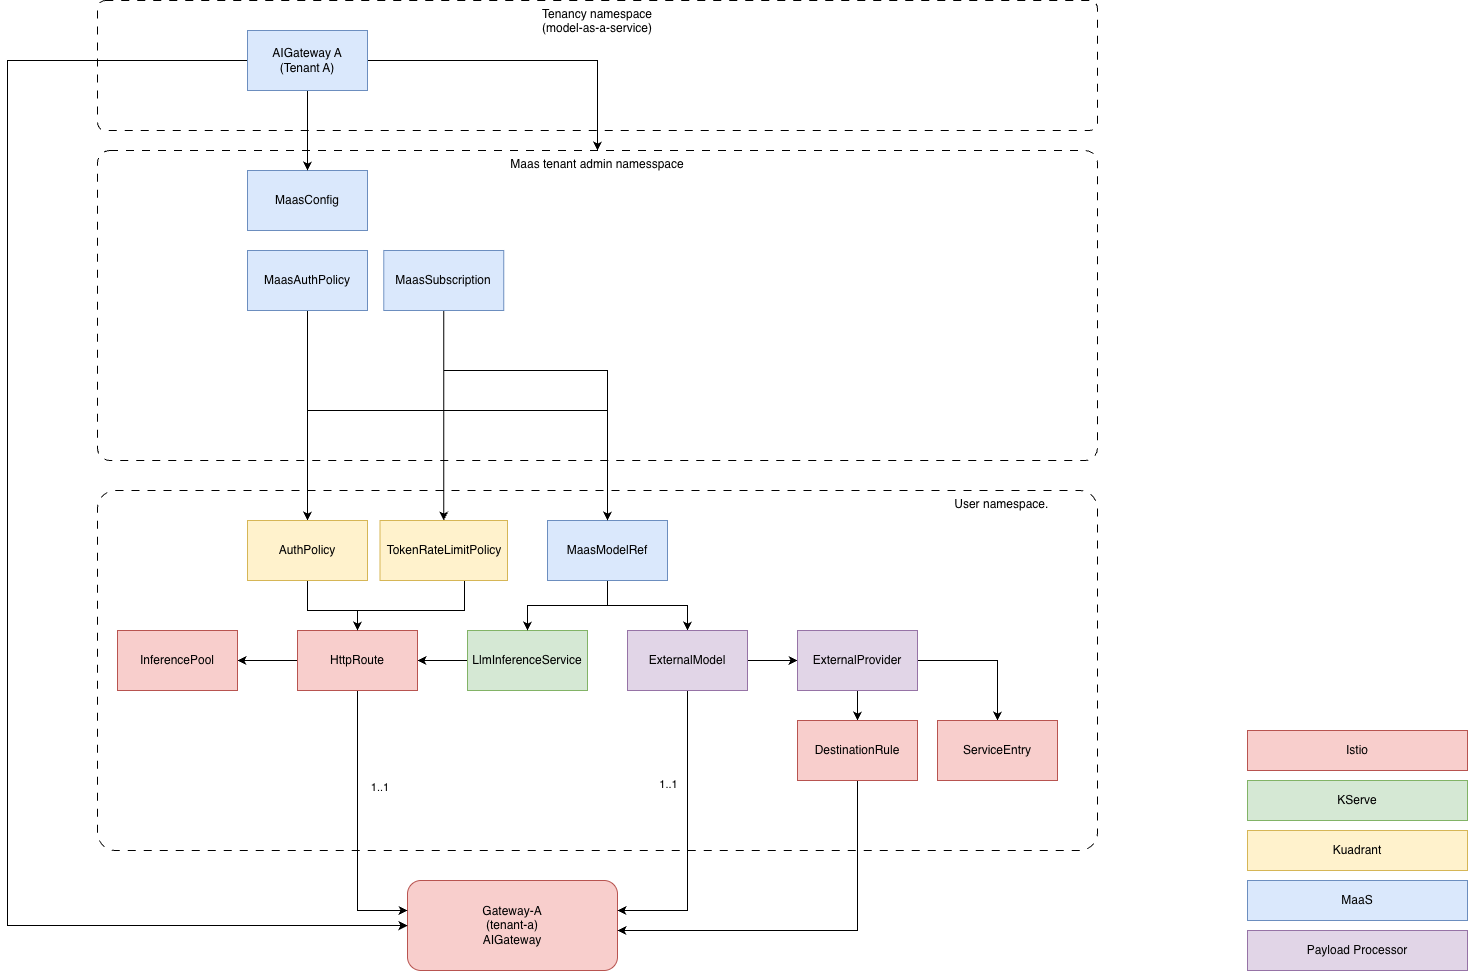
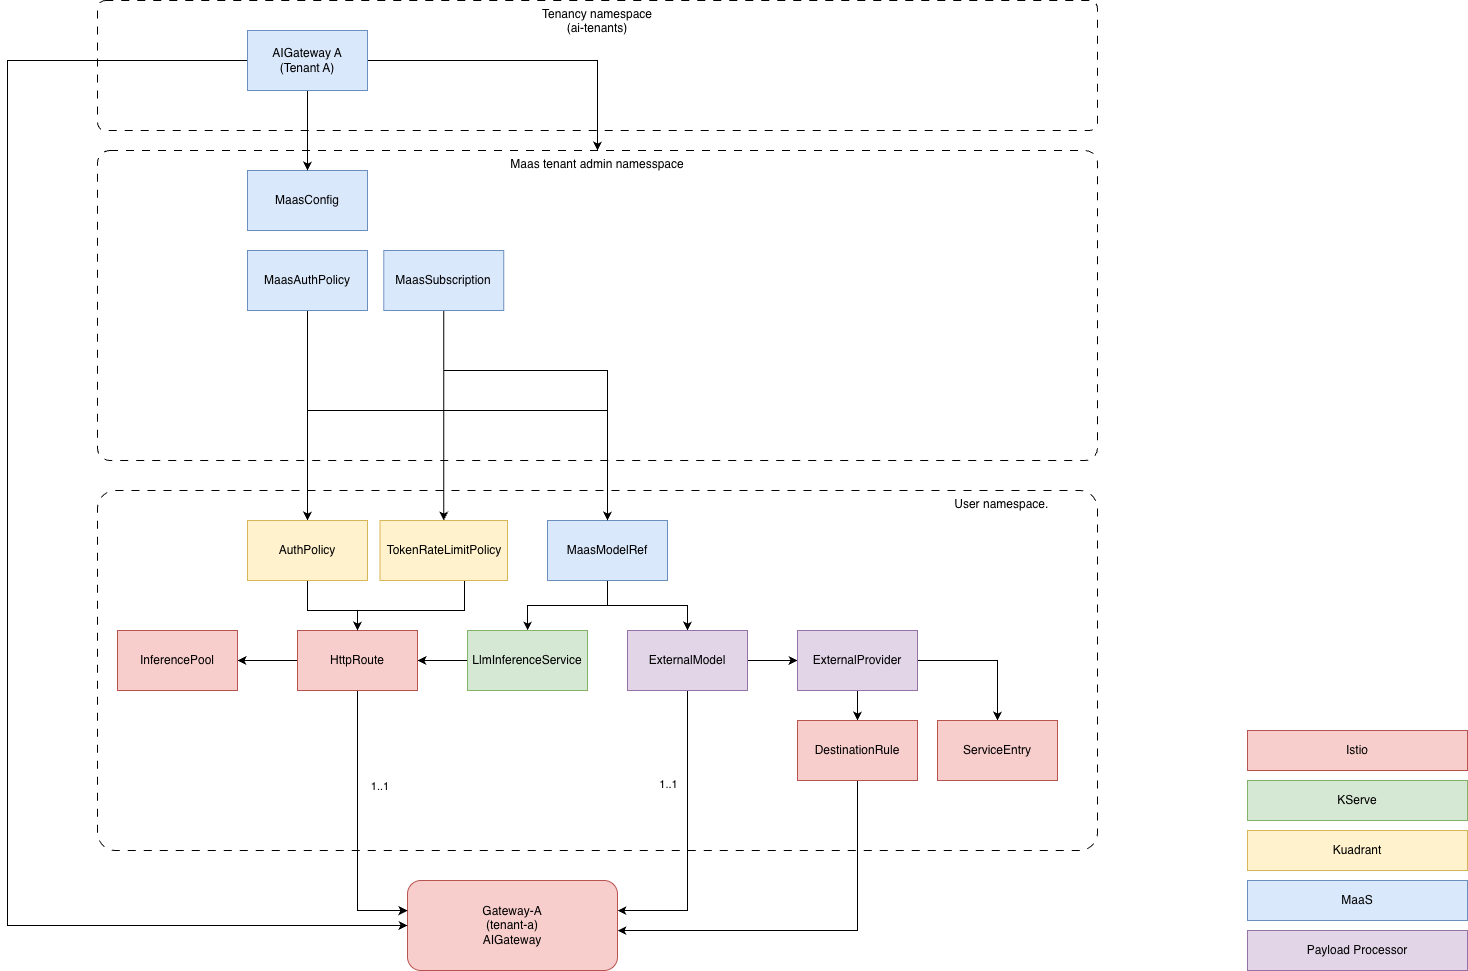
docs:  lifercycle and migration

diff --git a/architecture-decision-records/model-serving/ODH-ADR-MS-0003-ai-gateway-tenancy.md b/architecture-decision-records/model-serving/ODH-ADR-MS-0003-ai-gateway-tenancy.md
@@ -42,9 +42,15 @@ Currently MaaS is a single tenant system where all subscriptions and auth polici
 
 In the above diagram we describe the main CR objects required today and in the multi-tenancy concept. 
 
-#### Creating a tenant - Admin role
+#### Tenant lifecycle management - RHOAI Admin role
 
-1. The RHOAI admin creates an AI-Gateway CR object in the tenancy namespace. Today this namespace is `model-as-a-service` however this can be changed/renamed to a more general purpose. Also AI-Gateway CR name can be named to something more generic such as AI-Tenant so it can serve as a platform level tenancy object not just for the AI-Gateway/MaaS system. So naming consolidation needs TBD. However, for now, this document will refer to this CR as the AI-Gateway CR.
+##### Automatic vs. manual
+
+We are proposing here that the tenant lifecycle management is automatic in the sense that the AIGateway CR is the main starting point. From here maas-controller handles the necessary preparations.
+
+##### Tenant creation
+
+1. The RHOAI admin creates an AI-Gateway CR object in the tenancy namespace (tentatively named ai-tenants). Also AI-Gateway CR name can be named to something more generic such as AI-Tenant so it can serve as a platform level tenancy object not just for the AI-Gateway/MaaS system. So naming consolidation needs TBD. However, for now, this document will refer to this CR as the AI-Gateway CR.
 
 2. At this point the existent maas-controller can manage the AI-Gateway CR and in the future this can be moved to a higher level platform controller if needed. To minimize the amounts of changes this CR should use a more generic API group such as `tenancy.opendatahub.io/v1alpha1` (name TBD). Upon CR creation maas-controller will:
     - Create the maas tenant admin namespace . 
@@ -58,6 +64,22 @@ In the above diagram we describe the main CR objects required today and in the m
 - There is a single instance of maas-controller in the cluster.
 - There is a single instance of maas-api service in the cluster. This serves /v1/apikeys, /v1/subscriptions endpoints. 
 
+
+##### Tenant deletion
+
+To delete a tenant the admin only needs to delete the AIGateway CR. The following steps are performed automatically by the maas-controller:
+
+1. The Gatway CR is deleted. This automatically triggers the Envoy PODs deletion as well.
+2. The tenant admin namespace is deleted and consequently all namespace scoped CRs get deleted in this process
+3. Th CR's from the user namespace are not deleted. 
+4. KServe controller updates the HttpRoutes status is to `not ready` or `conflicted`. The routes are not deleted. Also the LllmInferenceService CR is not delete but the status is updated.
+4. The maas-controller needs to update the MaasModelRef status accordingly. 
+5. The ExternalProvider pointing to a deleted gateway should have the status updates similarly with the HttpRoute status.
+
+##### Tenant suspend & resume
+
+This is not in scope for now. Howver should be discussed if this is a requirement or not at some point.
+
 #### Deploying models - model deployer role
 
 We are not opinionated which namespace the clients choose to use to manage models. Thus they might want to have separate namespaces per tenants or use the same namespace for multiple tenants. 
@@ -69,7 +91,6 @@ We are not opinionated which namespace the clients choose to use to manage model
 3. Model is deployed by KServe.
 
 4. User creates the MaasModelRef CR that points to the LlmInferenceService CR
-
 
 While the model is deployed and attached to the correct ai-gateway it is still not accessible via the ai-gateway because there are no auth and rate-limit policies created. 
 
@@ -124,13 +145,25 @@ where `research`, `redteam` and `dev` are different tenants. We have 2 options h
     - CONS
         - A bit larger memory footprint since there is a separate maas-api service and deployment for each tenant.
 
-Based on the above, OPTION 2 seems to be more compelling (TBD)
+Based on the above, OPTION 2 seems to be more compelling and this is what we propose.
 
 In fact when a new Gateway CR (gateway.networking.k8s.io/v1) is created Istio creates separate Envoy proxy PODs. So most of the benefits of option 2 above applies at the proxy level as well. 
 
 ### Inference
 
 Since all policies are attached to the routes and the routes are attached to the tenant ai-gateway the inference traffic becomes simpler and more isolated. 
+
+### Database 
+
+Currently MaaS manages apikeys in a Postgres database. In the multi tenancy context a schema change is needed in order to add a new column tenant or gateway so that each api-key is scoped for that particular tenant. 
+
+### Migration
+
+- Current ApiKeys do not point to any tenant however the current model-as-a-service namespace can become the default tenant. So for the existend api-keys the DB is updated to this tenant name
+- on migration the system will create the AIGateway CR to match with the existent namespace and gateway.
+- > Other considerations should be added here
+
+The expectation is that all models deployed prior to the upgrate will continue to work. 
 
 ## Open Questions
 
@@ -145,6 +178,12 @@ We had extensive discussions around two fundamental options:
 2. Multiple gateways - one gateway per tenant
 
 After lots of debates we are proposing in this ADR option 2 as option 1 creates a lot more complexity with regards to policies and http-routes management.
+
+## Observability
+
+- Any tenant action for creation, update, deletion need to tracked via OTEL traces or logs.
+- Any API call that currently emits OTEL trances needs to include the tenant/gateway information.
+- Any Prometheuse metrics or OTEL logs (i.e. maas token usage metrics) needs to include the tenant/gateway information.
 
 ## Security and Privacy Considerations
 